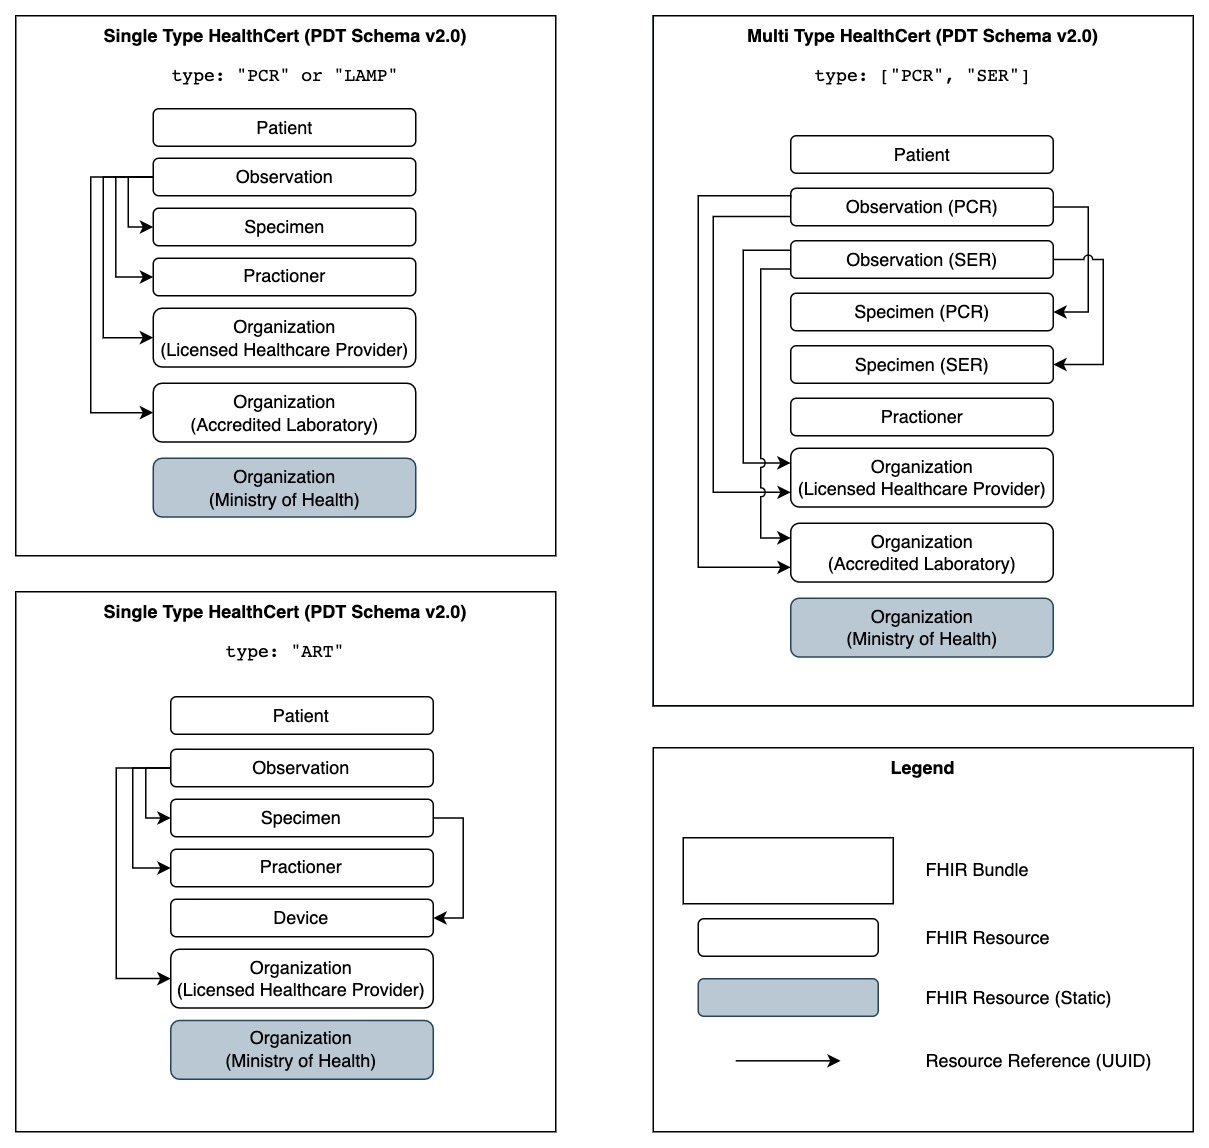
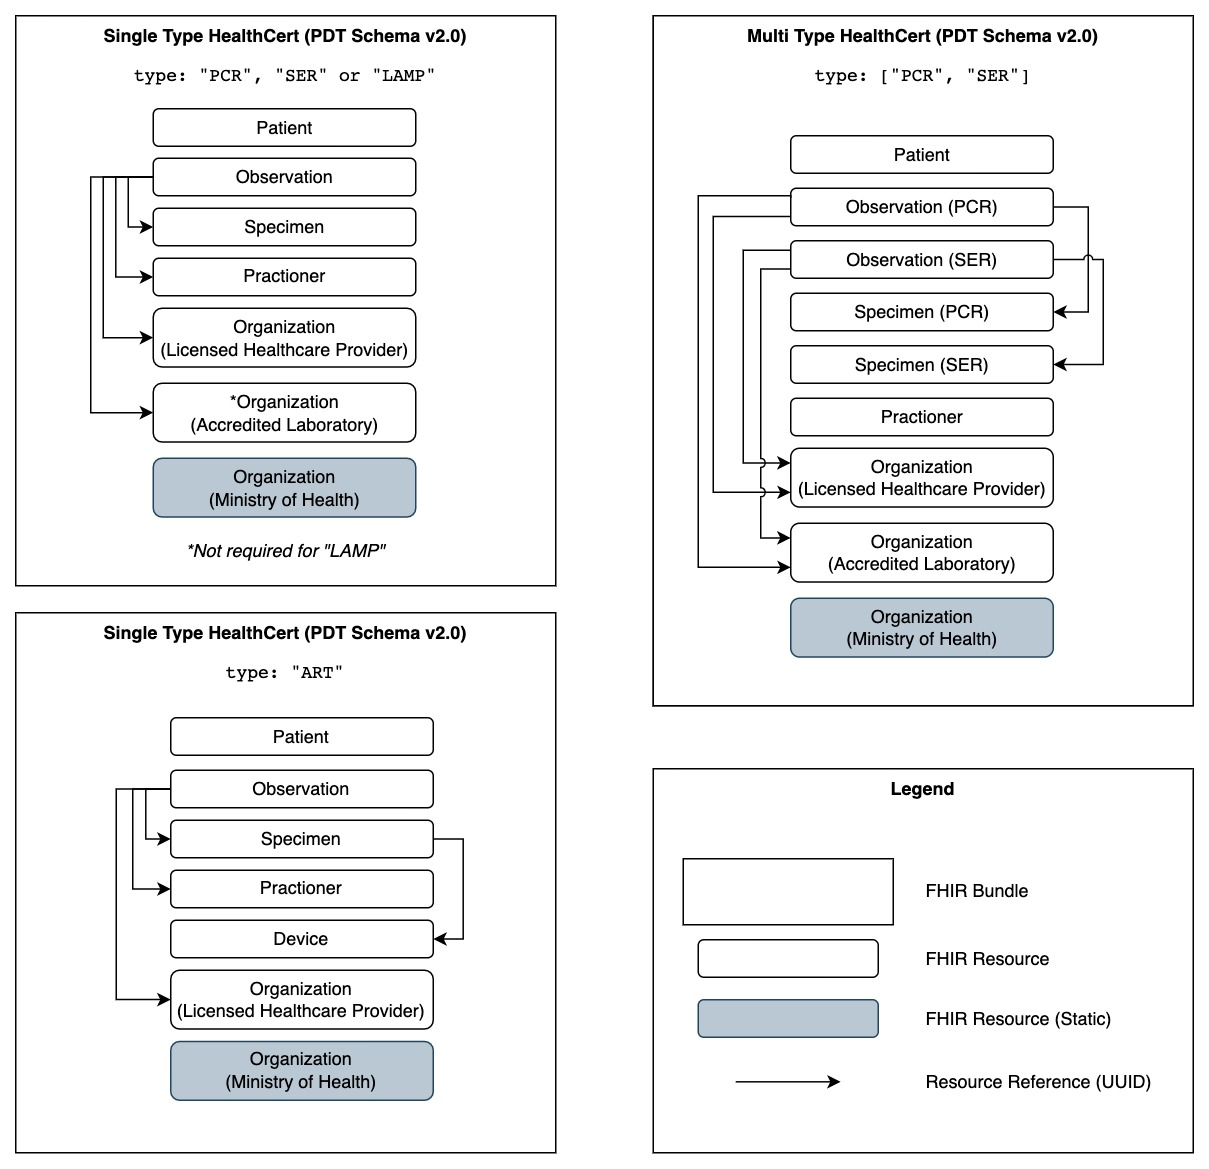
fix: remove requirement of accredited laboratory for lamp healthcerts (#589)
* fix: accredited laboratory not required for lamp

* fix: update lamp sample

* docs: update fhirbundle diagram

* fix: comment out config check to fix for later

diff --git a/src/models/fhir/constraints.ts b/src/models/fhir/constraints.ts
@@ -134,10 +134,10 @@ const artGroupedFhirKeys = {
 };
 
 /**
- * PCR/SER/LAMP constraints:
+ * PCR/SER constraints:
  * To convert parsed format -> original FHIR Bundle format (to aid in custom error message)
  */
-const pcrSerLampGroupedFhirKeys = {
+const pcrSerGroupedFhirKeys = {
   // Observation(s)
   "observations._.observation.organizationAlResourceUuid":
     "Observation.performer[2].{ id=AL, type=Organization, reference }",
@@ -229,7 +229,7 @@ export const getRequiredConstraints = (type: Type) => {
     return {
       ...generateRequiredConstraints(commonFhirKeys),
       ...generateRequiredGroupedConstraints(commonGroupedFhirKeys, 2),
-      ...generateRequiredGroupedConstraints(pcrSerLampGroupedFhirKeys, 2),
+      ...generateRequiredGroupedConstraints(pcrSerGroupedFhirKeys, 2),
     };
   } else if (type === PdtTypes.Art) {
     /**
@@ -240,19 +240,23 @@ export const getRequiredConstraints = (type: Type) => {
       ...generateRequiredGroupedConstraints(commonGroupedFhirKeys, 1),
       ...generateRequiredGroupedConstraints(artGroupedFhirKeys, 1),
     };
-  } else if (
-    type === PdtTypes.Pcr ||
-    type === PdtTypes.Ser ||
-    type === PdtTypes.Lamp
-  ) {
+  } else if (type === PdtTypes.Pcr || type === PdtTypes.Ser) {
     /**
-     * PCR, SER or LAMP HealthCert
-     * Currently they all have the same validation constraint
+     * PCR or SER HealthCert
+     * They currently have the same validation constraint
      */
     return {
       ...generateRequiredConstraints(commonFhirKeys),
       ...generateRequiredGroupedConstraints(commonGroupedFhirKeys, 1),
-      ...generateRequiredGroupedConstraints(pcrSerLampGroupedFhirKeys, 1),
+      ...generateRequiredGroupedConstraints(pcrSerGroupedFhirKeys, 1),
+    };
+  } else if (type === PdtTypes.Lamp) {
+    /**
+     * LAMP HealthCert
+     */
+    return {
+      ...generateRequiredConstraints(commonFhirKeys),
+      ...generateRequiredGroupedConstraints(commonGroupedFhirKeys, 1),
     };
   } else {
     /**
